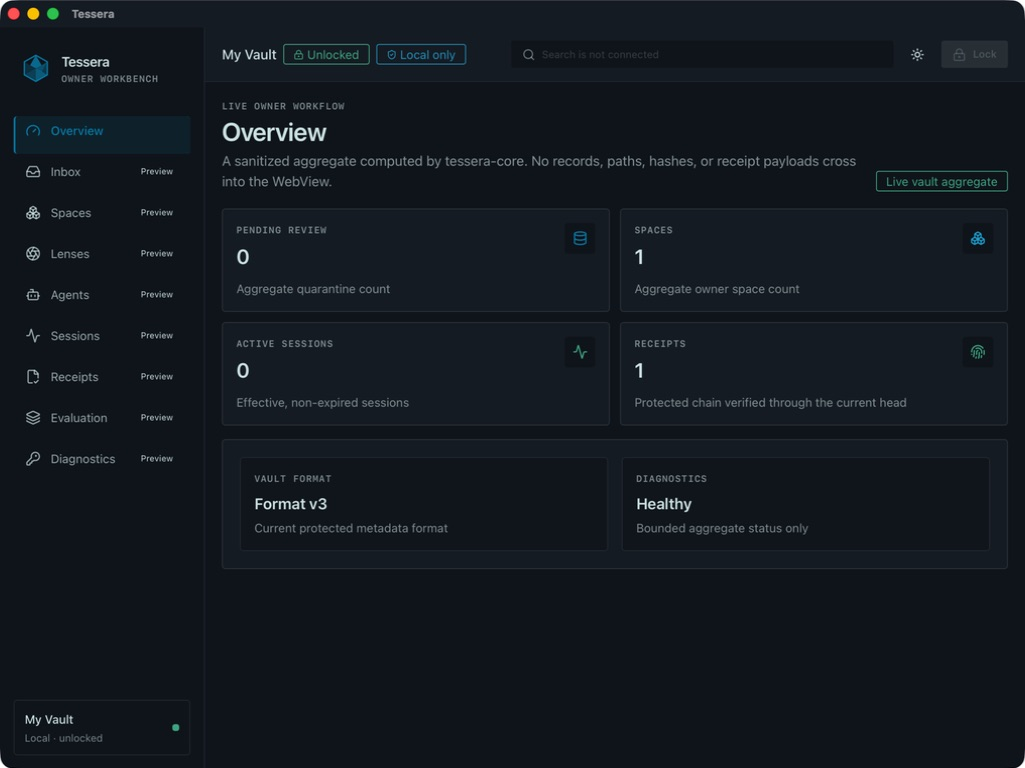
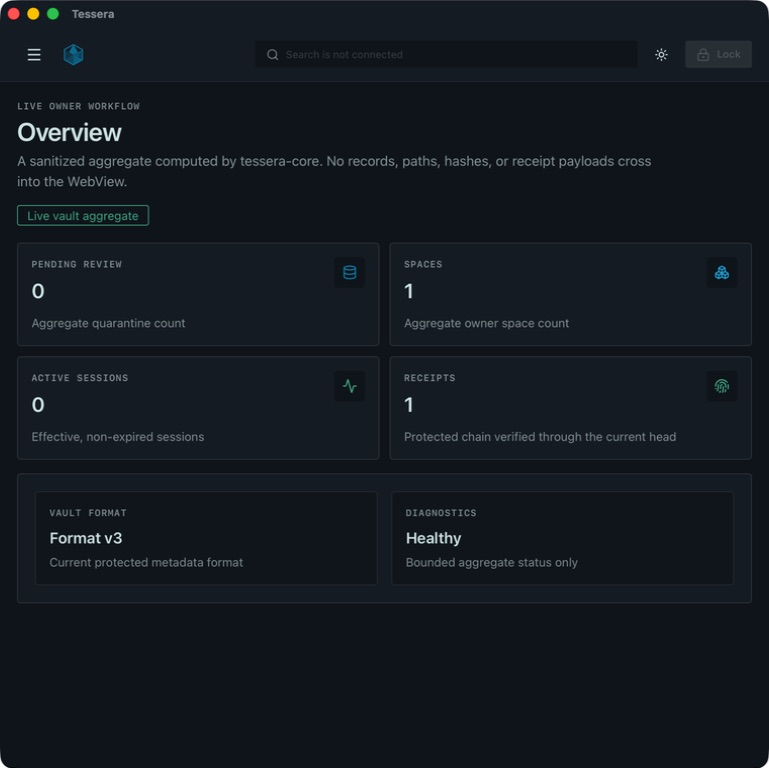
docs: refresh final desktop smoke evidence

diff --git a/docs/evidence/desktop-workbench-revival.md b/docs/evidence/desktop-workbench-revival.md
@@ -99,9 +99,9 @@ system, filesystem, SSD, snapshot, or backup layers.
 The first independent review round was bound to candidate `eff113a1f5163f3d9909ca13e89573df5053cbe6` and deliberately did not pass. It identified an overbroad `core:default` capability, development loopback origins in the production CSP, a falsely reassuring UI state after native lock failure, incomplete drawer keyboard semantics, incomplete lifecycle focus and announcement behavior, and insufficiently durable responsive evidence. The corrected candidate removes the optional capability grants, splits development and production CSP, enters a restart-required state after unconfirmed lock, traps and restores drawer focus with Escape support, focuses and announces lifecycle transitions, exercises all eight preview screens, and retains synthetic-only screenshots. Final independent review is required against the exact corrected commit.
 
 The final controlled ignored-performance run recorded: 10,000-artifact listing
-within its 100 ms budget; 18.97 ms per embedding chunk; 674 ms legacy
-migration; 1.16 ms median top-10 query; 26 ms diagnostics; 166 ms repair;
-888 ms backup; and 108 ms restore. These are development-machine measurements,
+within its 100 ms budget; 19.17 ms per embedding chunk; 717 ms legacy
+migration; 1.18 ms median top-10 query; 26 ms diagnostics; 173 ms repair;
+987 ms backup; and 109 ms restore. These are development-machine measurements,
 not cross-platform service level guarantees.
 
 A deliberately parallel validation attempt materially distorted two budgets
@@ -132,7 +132,7 @@ vault was opened.
 | Explicit lock | Live projection cleared immediately; empty path and passphrase fields returned; repeated lock remains covered by native and frontend tests |
 | Theme and focus | Light and dark themes rendered; keyboard Tab produced a visible focus ring on the lock control |
 | Preview honesty | Inbox carried a persistent preview warning; every fixture mutation and filter control was disabled; behavior tests visit all eight preview screens |
-| Responsive layout | Drawer/navigation and aggregate layout inspected at compact, medium, desktop, and wide native window sizes; retained screenshots are 423, 769, 1025, and 1229 device pixels respectively. The 1024-CSS-pixel wide four-card arrangement activated in the wide smoke, vertical scrolling appeared where expected, and no horizontal page scrollbar was present. |
+| Responsive layout | Drawer/navigation and aggregate layout inspected at compact, medium, desktop, and wide native window sizes. Retained captures show stacked compact content, two-column medium/desktop content, and the activated 1024-CSS-pixel wide four-card arrangement; vertical scrolling appeared where expected and no horizontal page scrollbar was present. Screenshot bitmap dimensions reflect macOS display scaling and are not presented as CSS viewport measurements. |
 | Exit | Application was explicitly locked before the packaged window closed; native state-drop behavior is independently covered by Rust test |
 
 Retained synthetic-only visual evidence:
